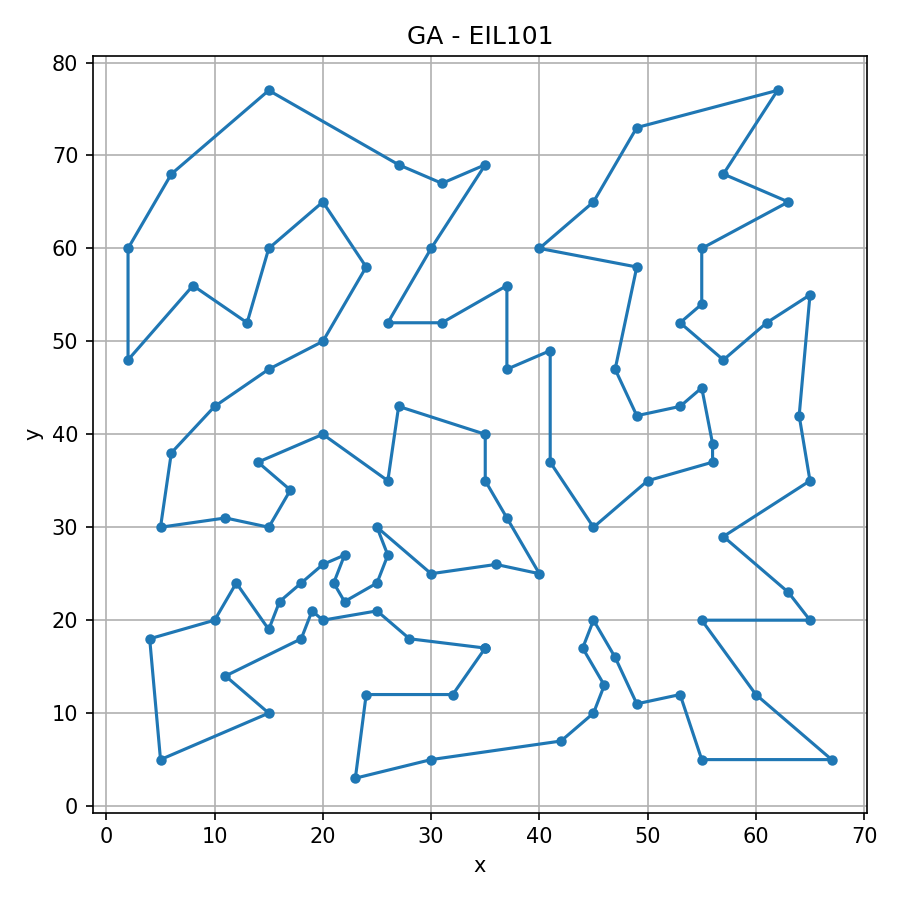
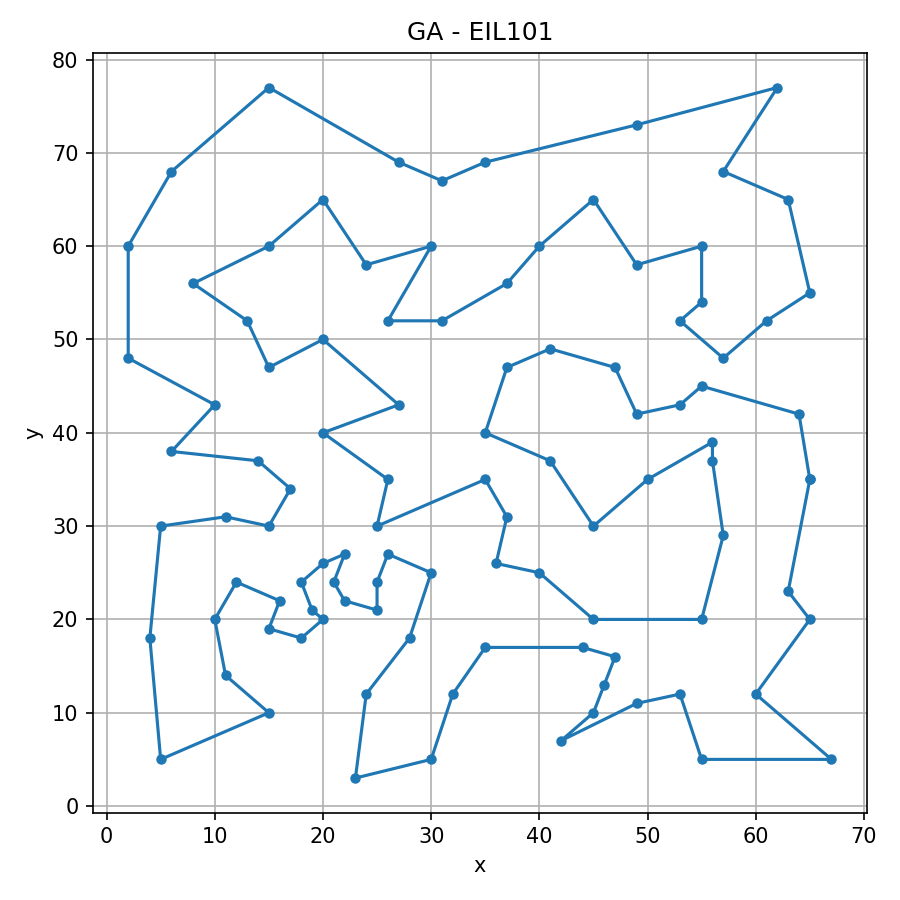
mejora ga

diff --git a/ga.py b/ga.py
@@ -1,44 +1,137 @@
 import numpy as np
 import random
-from distance import total_distance
+from distance import total_distance  # opcional; usamos safe_total_distance internamente
 
 
+# =========================
+# Utilidades de robustez
+# =========================
+def is_valid_perm(route, n):
+    return len(route) == n and len(set(route)) == n and min(route) >= 0 and max(route) < n
+
+
+def repair_permutation(route, n):
+    seen = set()
+    missing = [g for g in range(n) if g not in route]
+    miss_idx = 0
+    for i, g in enumerate(route):
+        if g in seen or g < 0 or g >= n:
+            route[i] = missing[miss_idx]
+            miss_idx += 1
+        else:
+            seen.add(g)
+    return route
+
+
+def safe_total_distance(D, route, big_penalty=1e12):
+    n = D.shape[0]
+    if not is_valid_perm(route, n):
+        route = repair_permutation(route, n)
+    if not is_valid_perm(route, n):
+        return big_penalty
+
+    dist = 0.0
+    for i in range(n):
+        dist += D[route[i], route[(i + 1) % n]]
+    if dist <= 0.0:
+        return big_penalty
+    return dist
+
+
+# =========================
+# Selección
+# =========================
 def tournament_selection(pop, fitness, k=3):
-
     selected = random.sample(list(zip(pop, fitness)), k)
     selected.sort(key=lambda x: x[1])
     return selected[0][0][:]
 
 
+# =========================
+# Cruces
+# =========================
 def order_crossover(p1, p2):
-    
     n = len(p1)
     a, b = sorted(random.sample(range(n), 2))
     child = [-1] * n
 
+    # Copiar segmento de p1
     child[a:b] = p1[a:b]
-
-    existing = set(child[a:b])
-    p2_filtered = [gene for gene in p2 if gene not in existing]
-
+    used = set(p1[a:b])
+    p2_filtered = [gene for gene in p2 if gene not in used]
     idx = 0
     for i in range(n):
         if child[i] == -1:
-            child[i] = p2_filtered[idx]
-            idx += 1
-
+            if idx < len(p2_filtered):
+                child[i] = p2_filtered[idx]
+                idx += 1
+            else:
+                break  
+    repair_permutation(child, n)
     return child
 
+
+def pmx_crossover(p1, p2):
+    n = len(p1)
+    a, b = sorted(random.sample(range(n), 2))
+    child = [-1] * n
+
+    # Copiar segmento central de p1
+    child[a:b] = p1[a:b]
+
+    # Mapeo entre segmentos p2 -> p1
+    mapping = {p2[i]: p1[i] for i in range(a, b)}
+
+    for i in range(n):
+        if a <= i < b:
+            continue
+        val = p2[i]
+        visited = set()
+        while val in mapping and val not in visited:
+            visited.add(val)
+            val = mapping[val]
+        child[i] = val
+
+    # Relleno y reparación por seguridad
+    repair_permutation(child, n)
+    return child
+
+
+# =========================
+# Mutaciones
+# =========================
 def swap_mutation(route):
     a, b = random.sample(range(len(route)), 2)
     route[a], route[b] = route[b], route[a]
+    repair_permutation(route, len(route))
 
 
 def reverse_mutation(route):
     a, b = sorted(random.sample(range(len(route)), 2))
     route[a:b] = reversed(route[a:b])
+    repair_permutation(route, len(route))
 
 
+# =========================
+# Heurística para población inicial
+# =========================
+def nearest_neighbor_route(D, start=0):
+    n = D.shape[0]
+    unvisited = set(range(n))
+    route = [start]
+    unvisited.remove(start)
+    while unvisited:
+        last = route[-1]
+        # ciudad más cercana aún no visitada
+        next_city = min(unvisited, key=lambda j: D[last, j])
+        route.append(next_city)
+        unvisited.remove(next_city)
+    return route
+
+
+# =========================
+# Algoritmo Genético
+# =========================
 def genetic_algorithm_tsp(
     D,
     N=200,
@@ -47,6 +140,7 @@ def genetic_algorithm_tsp(
     mutation_rate=0.4,
     elite_k=3,
     seed=None,
+    log_every=0,  # 0 = sin logs, >0 imprime cada 'log_every' iteraciones
 ):
 
     if seed is not None:
@@ -55,57 +149,96 @@ def genetic_algorithm_tsp(
 
     n = D.shape[0]
 
-    pop = [list(np.random.permutation(n)) for _ in range(N)]
+    # --- Población inicial: 80% aleatoria + 20% heurística NN
+    pop = [list(np.random.permutation(n)) for _ in range(int(N * 0.8))]
+    for i in range(int(N * 0.2)):
+        pop.append(nearest_neighbor_route(D, start=i % n))
 
-    fitness = [total_distance(D, p) for p in pop]
+    # Reparación por seguridad
+    for i in range(N):
+        repair_permutation(pop[i], n)
 
+    # Evaluación inicial segura
+    fitness = [safe_total_distance(D, p) for p in pop]
+
+    # Mejor global
     best_idx = int(np.argmin(fitness))
     best_route = pop[best_idx][:]
     best_cost = fitness[best_idx]
     best_history = [best_cost]
 
+    stagnation = 0  # generaciones sin mejorar
+
     for it in range(maxIter):
+        # Elitismo (preservar mejores)
         elites = sorted(zip(pop, fitness), key=lambda x: x[1])[:elite_k]
         new_pop = [e[0][:] for e in elites]
-        remaining = N - elite_k
-        total_rate = crossover_rate + mutation_rate
-        if total_rate == 0:
-            num_cross = 0
-            num_mut = remaining
-        else:
-            num_cross = int(round(remaining * crossover_rate / total_rate))
-            num_mut = remaining - num_cross
 
+        # Mutación adaptativa si no mejora
+        current_mut_rate = min(mutation_rate * (1.0 + stagnation / 50.0), 0.9)
+
+        remaining = N - elite_k
+        num_cross = int(round(remaining * crossover_rate))
+        num_mut = remaining - num_cross
+
+        # --- Cruce
         for _ in range(num_cross):
             p1 = tournament_selection(pop, fitness)
             p2 = tournament_selection(pop, fitness)
-            child = order_crossover(p1, p2)
+            if random.random() < 0.6:
+                child = order_crossover(p1, p2)
+            else:
+                child = pmx_crossover(p1, p2)
             new_pop.append(child)
 
+        # --- Mutación (probabilística con tasa adaptativa)
         for _ in range(num_mut):
             indiv = tournament_selection(pop, fitness)
             mutated = indiv[:]
-            if random.random() < 0.5:
-                swap_mutation(mutated)
-            else:
-                reverse_mutation(mutated)
+            if random.random() < current_mut_rate:
+                if random.random() < 0.5:
+                    swap_mutation(mutated)
+                else:
+                    reverse_mutation(mutated)
+            # reparar por seguridad (no debería ser necesario, pero es barato)
+            repair_permutation(mutated, n)
             new_pop.append(mutated)
 
+        # Inyección de diversidad cada 100 iteraciones
+        if it > 0 and it % 100 == 0:
+            for _ in range(max(1, int(N * 0.1))):
+                pos = random.randint(0, N - 1)
+                new_pop[pos] = list(np.random.permutation(n))
+
+        # Asegurar tamaño
         if len(new_pop) < N:
             while len(new_pop) < N:
                 new_pop.append(list(np.random.permutation(n)))
         elif len(new_pop) > N:
             new_pop = new_pop[:N]
 
-        pop = new_pop
-        fitness = [total_distance(D, p) for p in pop]
+        # Preservar explícitamente el mejor global
+        new_pop[0] = best_route[:]
 
+        # Evaluar generación
+        pop = new_pop
+        fitness = [safe_total_distance(D, p) for p in pop]
+
+        # Actualizar mejor
         current_best_idx = int(np.argmin(fitness))
-        current_best_cost = fitness[current_best_idx]
+        current_best_route = repair_permutation(pop[current_best_idx][:], n)
+        current_best_cost = safe_total_distance(D, current_best_route)
+
         if current_best_cost < best_cost:
             best_cost = current_best_cost
-            best_route = pop[current_best_idx][:]
+            best_route = current_best_route[:]
+            stagnation = 0
+        else:
+            stagnation += 1
 
         best_history.append(best_cost)
+
+        if log_every and (it % log_every == 0):
+            print(f"[GA] iter {it:4d} | best = {best_cost:.4f} | mut={current_mut_rate:.2f}")
 
     return best_route, best_cost, best_history
